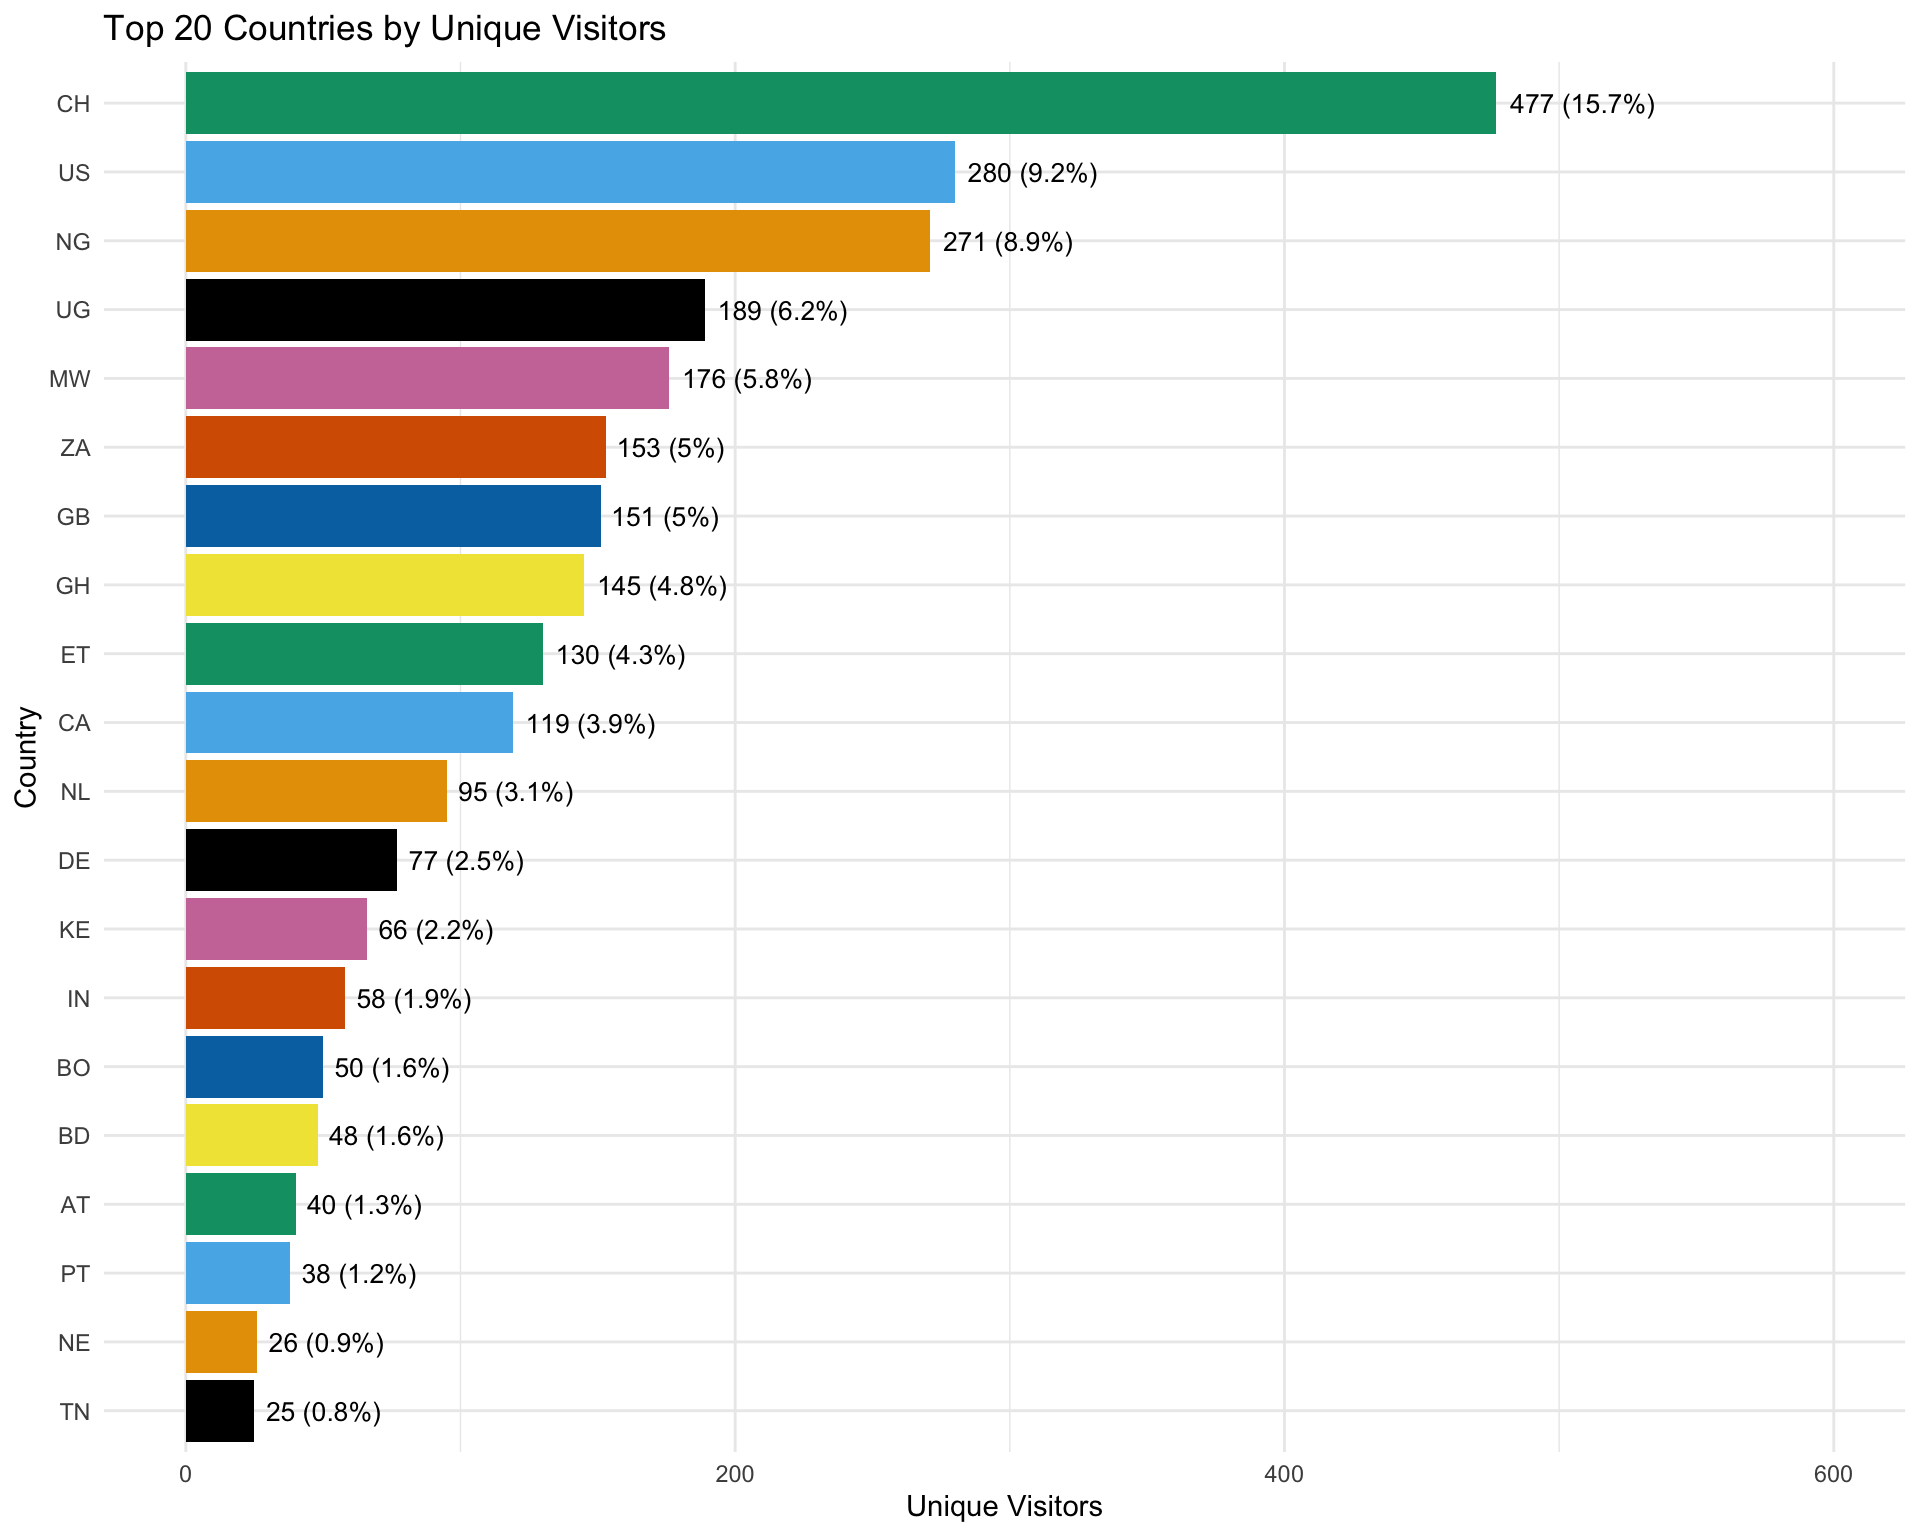
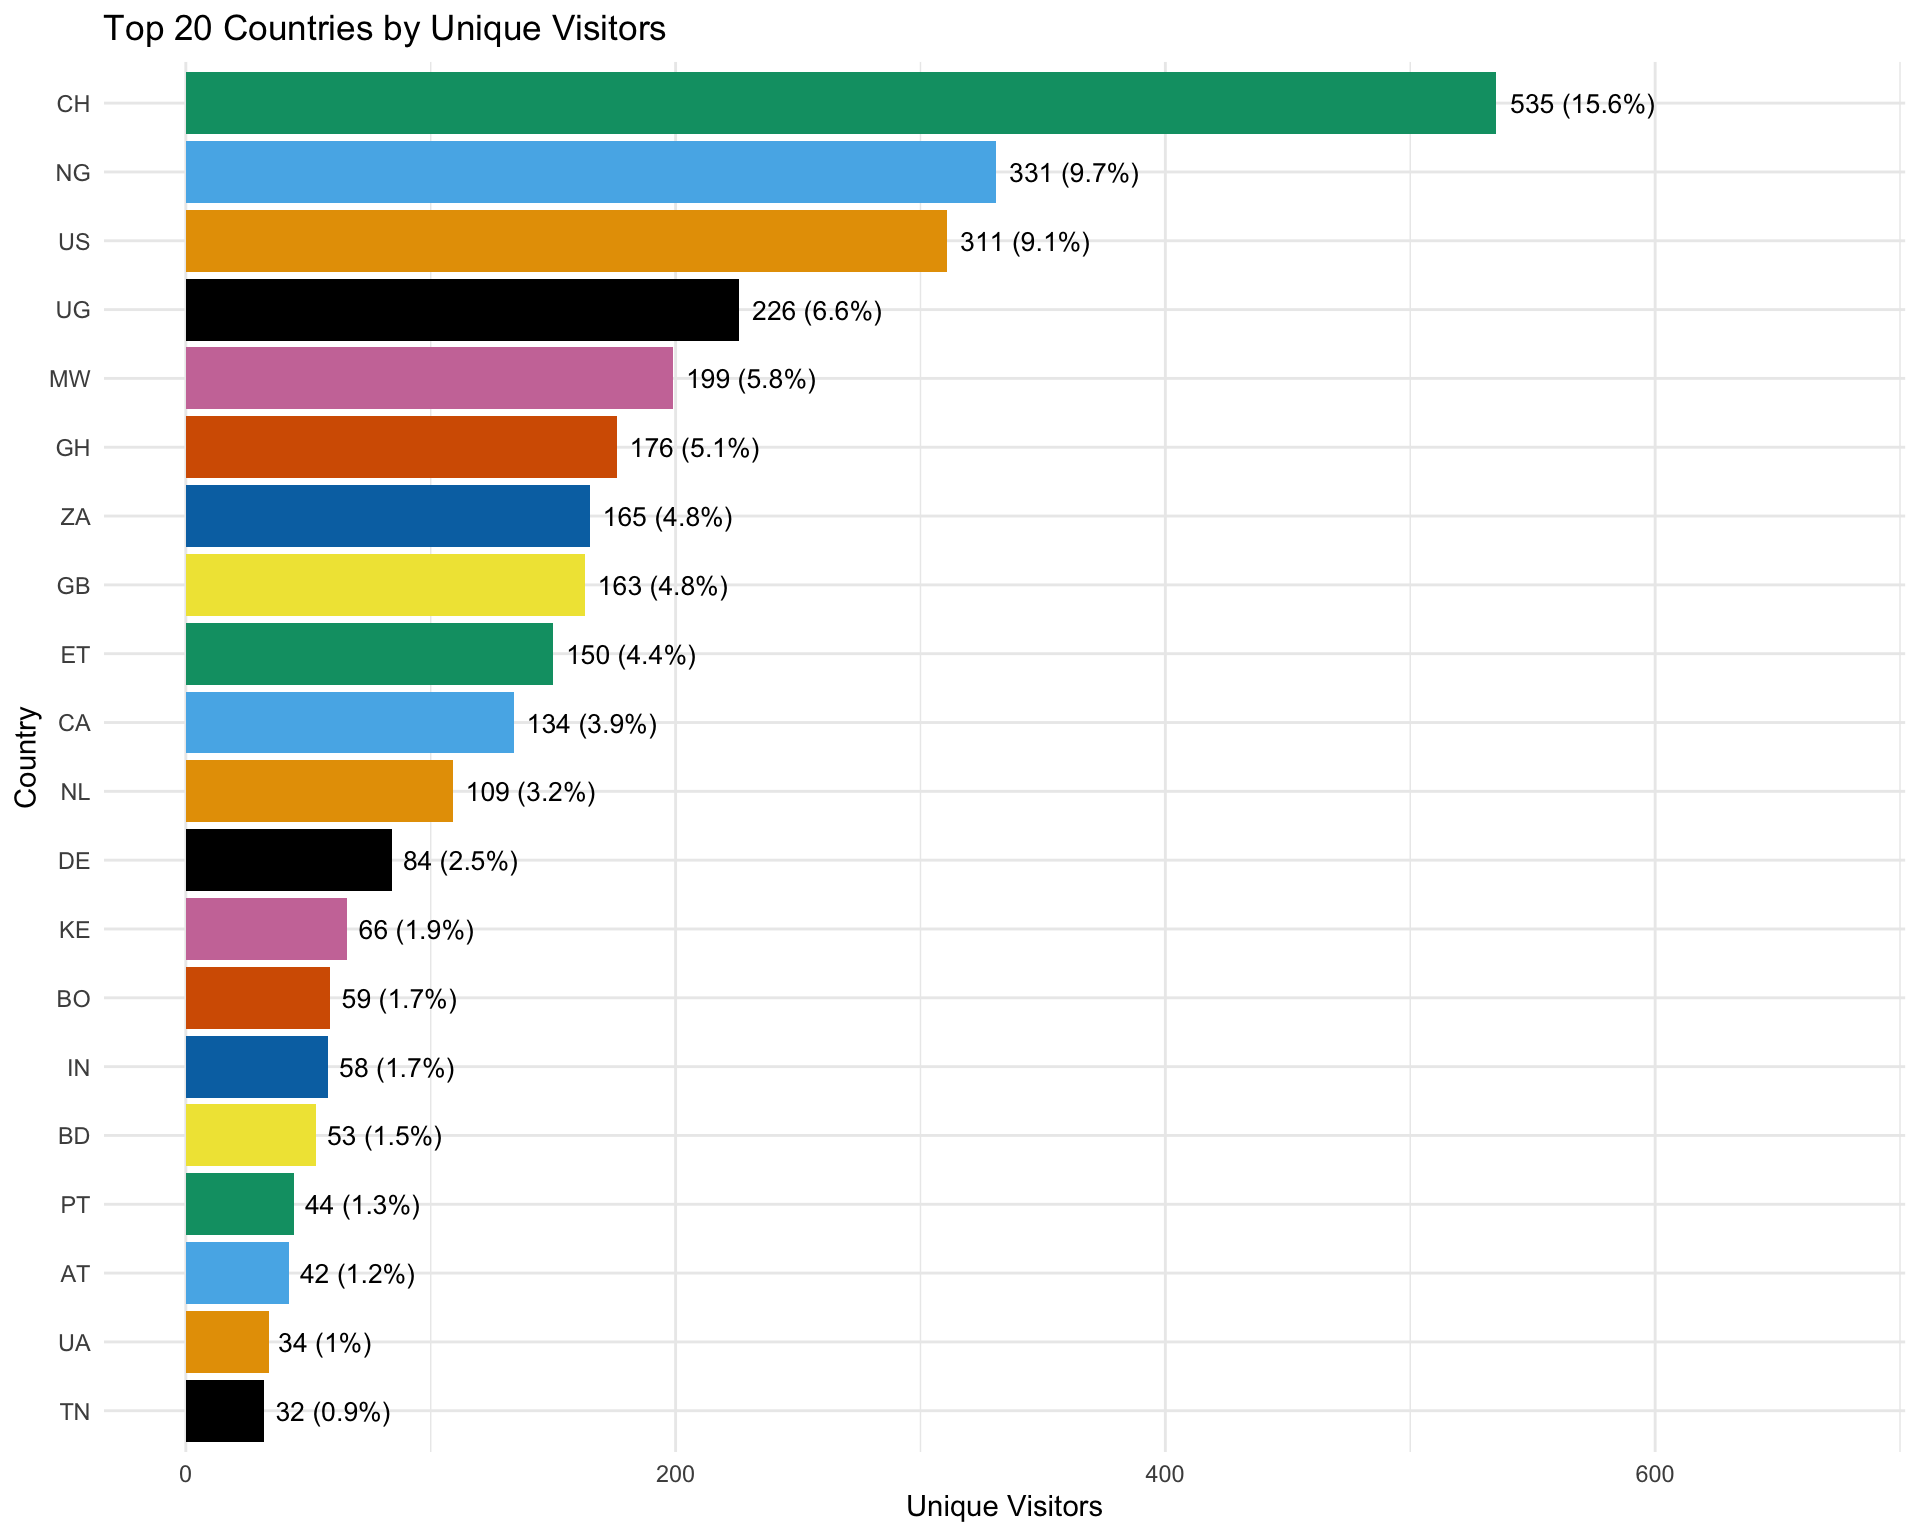
Update Plausible data

diff --git a/plausible/docs/plausible_analysis.html b/plausible/docs/plausible_analysis.html
@@ -65,15 +65,15 @@ ul.task-list li input[type="checkbox"] {
 
 <section id="overview" class="level2">
 <h2 class="anchored" data-anchor-id="overview">Overview</h2>
-<p>This analysis covers website analytics for <strong>ds4owd-002.github.io/website</strong>, spanning <strong>134 days</strong> from <strong>July 07, 2025</strong> to <strong>November 18, 2025</strong>.</p>
-<p><em>Data extracted: November 18, 2025 at 10:25 UTC</em></p>
+<p>This analysis covers website analytics for <strong>ds4owd-002.github.io/website</strong>, spanning <strong>155 days</strong> from <strong>July 07, 2025</strong> to <strong>December 09, 2025</strong>.</p>
+<p><em>Data extracted: December 09, 2025 at 09:34 UTC</em></p>
 <p><strong>Overall Statistics:</strong></p>
 <ul>
-<li>Total unique visitors: <strong>3,085</strong></li>
-<li>Total visits: <strong>3,964</strong></li>
-<li>Total pageviews: <strong>20,985</strong></li>
-<li>Average bounce rate: 38.6%</li>
-<li>Average visit duration: 372 seconds</li>
+<li>Total unique visitors: <strong>3,476</strong></li>
+<li>Total visits: <strong>4,505</strong></li>
+<li>Total pageviews: <strong>24,385</strong></li>
+<li>Average bounce rate: 37.2%</li>
+<li>Average visit duration: 389 seconds</li>
 </ul>
 </section>
 <section id="traffic-trends-over-time" class="level2">
@@ -171,14 +171,22 @@ ul.task-list li input[type="checkbox"] {
 </thead>
 <tbody>
 <tr class="odd">
-<td style="text-align: left;">Nov 2025</td>
-<td style="text-align: right;">295</td>
-<td style="text-align: right;">393</td>
-<td style="text-align: right;">2683</td>
-<td style="text-align: right;">15.8</td>
-<td style="text-align: right;">493</td>
+<td style="text-align: left;">Dec 2025</td>
+<td style="text-align: right;">188</td>
+<td style="text-align: right;">256</td>
+<td style="text-align: right;">1565</td>
+<td style="text-align: right;">27.1</td>
+<td style="text-align: right;">567</td>
 </tr>
 <tr class="even">
+<td style="text-align: left;">Nov 2025</td>
+<td style="text-align: right;">498</td>
+<td style="text-align: right;">678</td>
+<td style="text-align: right;">4518</td>
+<td style="text-align: right;">21.5</td>
+<td style="text-align: right;">474</td>
+</tr>
+<tr class="odd">
 <td style="text-align: left;">Oct 2025</td>
 <td style="text-align: right;">767</td>
 <td style="text-align: right;">1045</td>
@@ -186,7 +194,7 @@ ul.task-list li input[type="checkbox"] {
 <td style="text-align: right;">16.1</td>
 <td style="text-align: right;">428</td>
 </tr>
-<tr class="odd">
+<tr class="even">
 <td style="text-align: left;">Sep 2025</td>
 <td style="text-align: right;">1386</td>
 <td style="text-align: right;">1823</td>
@@ -194,7 +202,7 @@ ul.task-list li input[type="checkbox"] {
 <td style="text-align: right;">28.8</td>
 <td style="text-align: right;">583</td>
 </tr>
-<tr class="even">
+<tr class="odd">
 <td style="text-align: left;">Aug 2025</td>
 <td style="text-align: right;">363</td>
 <td style="text-align: right;">401</td>
@@ -202,7 +210,7 @@ ul.task-list li input[type="checkbox"] {
 <td style="text-align: right;">64.0</td>
 <td style="text-align: right;">213</td>
 </tr>
-<tr class="odd">
+<tr class="even">
 <td style="text-align: left;">Jul 2025</td>
 <td style="text-align: right;">274</td>
 <td style="text-align: right;">302</td>
@@ -272,27 +280,27 @@ ul.task-list li input[type="checkbox"] {
 <tbody>
 <tr class="odd">
 <td style="text-align: left;">Desktop</td>
-<td style="text-align: right;">2561</td>
-<td style="text-align: right;">84.2</td>
-<td style="text-align: right;">19404</td>
+<td style="text-align: right;">2927</td>
+<td style="text-align: right;">85.4</td>
+<td style="text-align: right;">22730</td>
 <td style="text-align: right;">26</td>
-<td style="text-align: right;">532</td>
+<td style="text-align: right;">533</td>
 </tr>
 <tr class="even">
 <td style="text-align: left;">Mobile</td>
-<td style="text-align: right;">477</td>
-<td style="text-align: right;">15.7</td>
-<td style="text-align: right;">1572</td>
+<td style="text-align: right;">494</td>
+<td style="text-align: right;">14.4</td>
+<td style="text-align: right;">1643</td>
 <td style="text-align: right;">49</td>
-<td style="text-align: right;">143</td>
+<td style="text-align: right;">141</td>
 </tr>
 <tr class="odd">
 <td style="text-align: left;">Tablet</td>
-<td style="text-align: right;">4</td>
-<td style="text-align: right;">0.1</td>
-<td style="text-align: right;">5</td>
-<td style="text-align: right;">75</td>
-<td style="text-align: right;">12</td>
+<td style="text-align: right;">6</td>
+<td style="text-align: right;">0.2</td>
+<td style="text-align: right;">8</td>
+<td style="text-align: right;">67</td>
+<td style="text-align: right;">20</td>
 </tr>
 <tr class="even">
 <td style="text-align: left;">(not set)</td>
@@ -385,83 +393,83 @@ ul.task-list li input[type="checkbox"] {
 <tbody>
 <tr class="odd">
 <td style="text-align: left;">/website/</td>
-<td style="text-align: right;">2035</td>
-<td style="text-align: right;">39.4</td>
-<td style="text-align: right;">3507</td>
-<td style="text-align: right;">37</td>
-<td style="text-align: right;">411</td>
+<td style="text-align: right;">2252</td>
+<td style="text-align: right;">39.6</td>
+<td style="text-align: right;">3866</td>
+<td style="text-align: right;">35</td>
+<td style="text-align: right;">434</td>
 </tr>
 <tr class="even">
 <td style="text-align: left;">/website/modules/md-01.html</td>
 <td style="text-align: right;">692</td>
-<td style="text-align: right;">13.4</td>
+<td style="text-align: right;">12.2</td>
 <td style="text-align: right;">2982</td>
 <td style="text-align: right;">1</td>
 <td style="text-align: right;">804</td>
 </tr>
 <tr class="odd">
+<td style="text-align: left;">/website/content/modules/md-04.html</td>
+<td style="text-align: right;">461</td>
+<td style="text-align: right;">8.1</td>
+<td style="text-align: right;">1769</td>
+<td style="text-align: right;">5</td>
+<td style="text-align: right;">389</td>
+</tr>
+<tr class="even">
 <td style="text-align: left;">/website//modules/md-02.html</td>
 <td style="text-align: right;">438</td>
-<td style="text-align: right;">8.5</td>
+<td style="text-align: right;">7.7</td>
 <td style="text-align: right;">1839</td>
 <td style="text-align: right;">9</td>
 <td style="text-align: right;">860</td>
 </tr>
-<tr class="even">
+<tr class="odd">
 <td style="text-align: left;">/website/modules/md-02.html</td>
 <td style="text-align: right;">436</td>
-<td style="text-align: right;">8.4</td>
+<td style="text-align: right;">7.7</td>
 <td style="text-align: right;">854</td>
 <td style="text-align: right;">2</td>
 <td style="text-align: right;">600</td>
 </tr>
-<tr class="odd">
-<td style="text-align: left;">/website/content/modules/md-04.html</td>
-<td style="text-align: right;">411</td>
-<td style="text-align: right;">8.0</td>
-<td style="text-align: right;">1626</td>
-<td style="text-align: right;">5</td>
-<td style="text-align: right;">374</td>
-</tr>
 <tr class="even">
 <td style="text-align: left;">/website/content/modules/md-05.html</td>
-<td style="text-align: right;">308</td>
-<td style="text-align: right;">6.0</td>
-<td style="text-align: right;">1083</td>
-<td style="text-align: right;">8</td>
-<td style="text-align: right;">434</td>
+<td style="text-align: right;">370</td>
+<td style="text-align: right;">6.5</td>
+<td style="text-align: right;">1314</td>
+<td style="text-align: right;">7</td>
+<td style="text-align: right;">502</td>
 </tr>
 <tr class="odd">
 <td style="text-align: left;">/website/content/modules/md-06.html</td>
-<td style="text-align: right;">220</td>
-<td style="text-align: right;">4.3</td>
-<td style="text-align: right;">886</td>
+<td style="text-align: right;">304</td>
+<td style="text-align: right;">5.3</td>
+<td style="text-align: right;">1249</td>
 <td style="text-align: right;">0</td>
-<td style="text-align: right;">547</td>
+<td style="text-align: right;">595</td>
 </tr>
 <tr class="even">
-<td style="text-align: left;">/website/content/modules/md-03.html</td>
-<td style="text-align: right;">211</td>
-<td style="text-align: right;">4.1</td>
-<td style="text-align: right;">732</td>
-<td style="text-align: right;">6</td>
-<td style="text-align: right;">442</td>
+<td style="text-align: left;">/website/content/modules/md-07.html</td>
+<td style="text-align: right;">278</td>
+<td style="text-align: right;">4.9</td>
+<td style="text-align: right;">1167</td>
+<td style="text-align: right;">0</td>
+<td style="text-align: right;">520</td>
 </tr>
 <tr class="odd">
+<td style="text-align: left;">/website/content/modules/md-03.html</td>
+<td style="text-align: right;">247</td>
+<td style="text-align: right;">4.3</td>
+<td style="text-align: right;">847</td>
+<td style="text-align: right;">6</td>
+<td style="text-align: right;">420</td>
+</tr>
+<tr class="even">
 <td style="text-align: left;">/website//modules/md-03.html</td>
 <td style="text-align: right;">206</td>
-<td style="text-align: right;">4.0</td>
+<td style="text-align: right;">3.6</td>
 <td style="text-align: right;">786</td>
 <td style="text-align: right;">25</td>
 <td style="text-align: right;">418</td>
-</tr>
-<tr class="even">
-<td style="text-align: left;">/website/modules/md-03.html</td>
-<td style="text-align: right;">203</td>
-<td style="text-align: right;">3.9</td>
-<td style="text-align: right;">361</td>
-<td style="text-align: right;">3</td>
-<td style="text-align: right;">317</td>
 </tr>
 </tbody>
 </table>
@@ -484,16 +492,16 @@ ul.task-list li input[type="checkbox"] {
 <h2 class="anchored" data-anchor-id="summary-insights">Summary Insights</h2>
 <p><strong>30-Day Growth Rate:</strong></p>
 <ul>
-<li>Recent 30 days avg: 19 visitors/day</li>
-<li>Previous 30 days avg: 33 visitors/day</li>
-<li>Growth rate: -41.9%</li>
+<li>Recent 30 days avg: 18 visitors/day</li>
+<li>Previous 30 days avg: 19 visitors/day</li>
+<li>Growth rate: -6%</li>
 </ul>
 <p><strong>Top Performers:</strong></p>
 <ul>
-<li>Best traffic source: <strong>Direct / None</strong> with 2,308 visitors</li>
-<li>Most popular page: <strong>/website/</strong> with 2,035 visitors</li>
-<li>Top country: <strong>CH</strong> with 477 visitors</li>
-<li>Dominant device: <strong>Desktop</strong> with 84.2% of visitors</li>
+<li>Best traffic source: <strong>Direct / None</strong> with 2,669 visitors</li>
+<li>Most popular page: <strong>/website/</strong> with 2,252 visitors</li>
+<li>Top country: <strong>CH</strong> with 535 visitors</li>
+<li>Dominant device: <strong>Desktop</strong> with 85.4% of visitors</li>
 </ul>
 </section>
 
